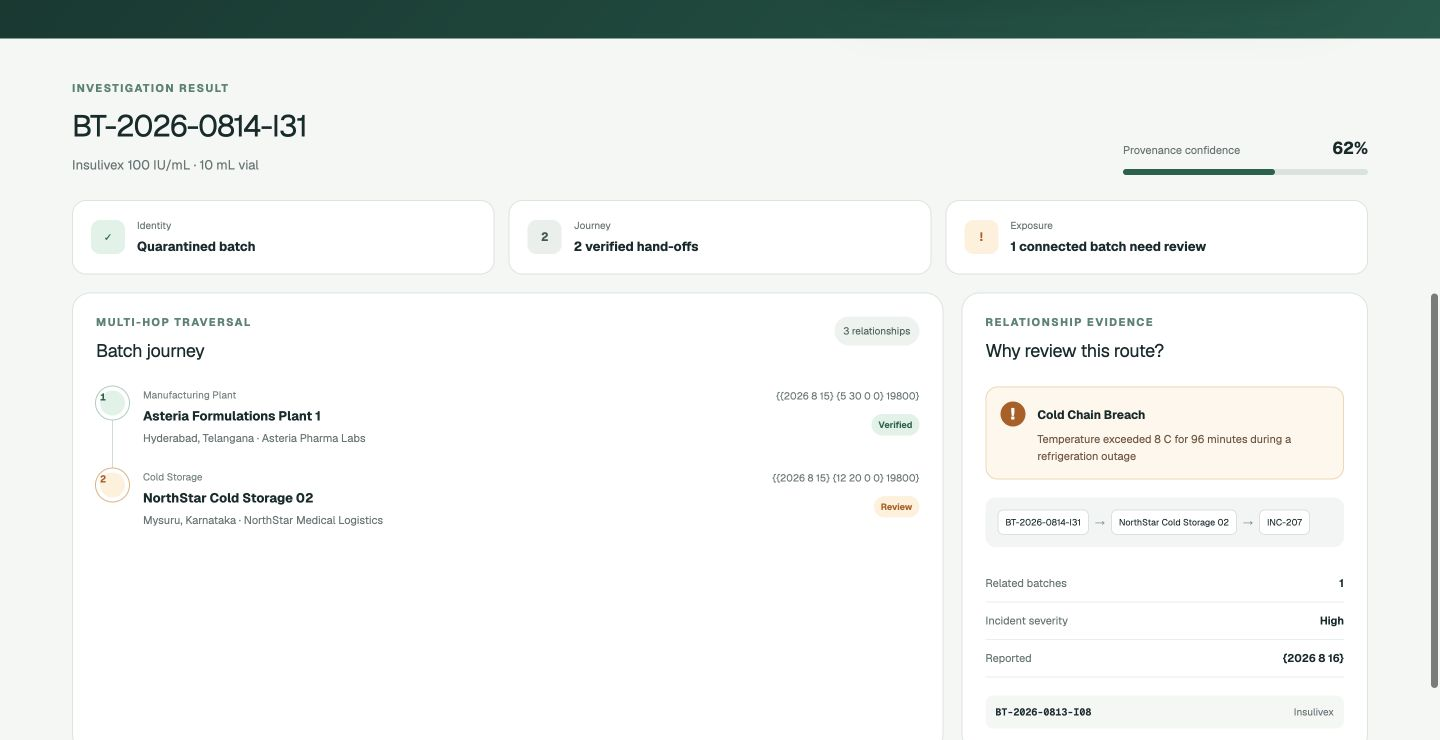
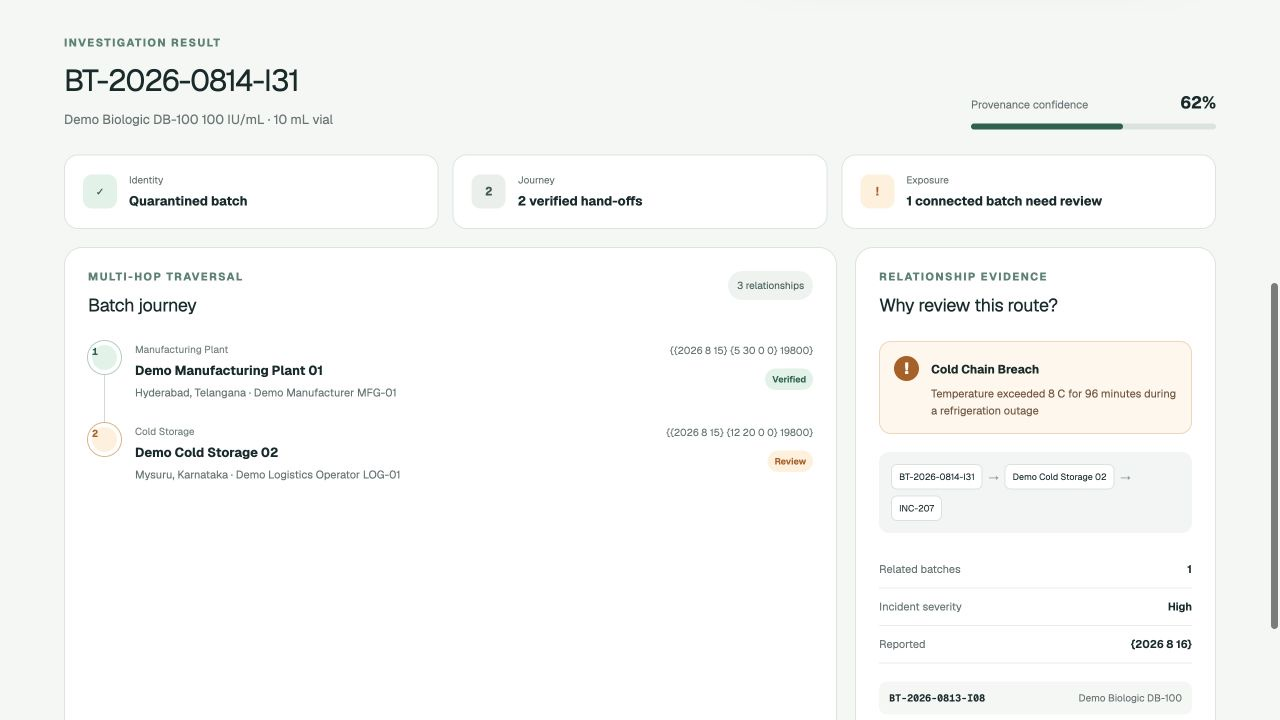
Document synthetic data and third-party licenses

diff --git a/app/globals.css b/app/globals.css
@@ -135,6 +135,16 @@ button { cursor: pointer; }
 .related-list div { display: flex; align-items: center; justify-content: space-between; gap: 10px; padding: 9px 10px; background: #f4f7f5; border-radius: 8px; }
 .related-list span { font: 650 10px var(--font-geist-mono); }
 .related-list small { color: var(--muted); font-size: 10px; }
+.site-footer {
+  padding: 24px clamp(24px, 5vw, 72px);
+  color: var(--muted);
+  background: var(--white);
+  border-top: 1px solid var(--line);
+  font-size: 11px;
+  line-height: 1.6;
+  text-align: center;
+}
+.site-footer strong { color: var(--ink); }
 
 @media (max-width: 900px) {
   .hero { grid-template-columns: 1fr; align-items: start; }

diff --git a/app/page.tsx b/app/page.tsx
@@ -234,6 +234,13 @@ export default function Home() {
           </>
         )}
       </section>
+
+      <footer className="site-footer">
+        <strong>Demonstration data only.</strong> All organizations, medicines, facilities,
+        incidents, identifiers, and operational records shown here are synthetic and do not
+        represent real supply-chain or patient data. Any resemblance to an actual entity or
+        product is coincidental.
+      </footer>
     </main>
   );
 }

diff --git a/THIRD_PARTY_NOTICES.md b/THIRD_PARTY_NOTICES.md
@@ -1,0 +1,33 @@
+# Third-Party Software Notices
+
+PharmRoute.Ai uses the following direct open-source dependencies. This notice does not alter the licences of those projects. Copyright belongs to their respective authors and contributors.
+
+## Production dependencies
+
+| Component | Version | Licence | Project |
+| --- | --- | --- | --- |
+| Next.js | 16.3.1 | MIT | https://github.com/vercel/next.js |
+| React | 19.2.8 | MIT | https://github.com/facebook/react |
+| React DOM | 19.2.8 | MIT | https://github.com/facebook/react |
+| Spring Boot | 4.1.0 | Apache-2.0 | https://github.com/spring-projects/spring-boot |
+| Neo4j Java Driver | 5.28.10 | Apache-2.0 | https://github.com/neo4j/neo4j-java-driver |
+
+## Frontend development dependencies
+
+| Component | Version | Licence | Project |
+| --- | --- | --- | --- |
+| Tailwind CSS PostCSS plugin | 4.2.1 | MIT | https://github.com/tailwindlabs/tailwindcss |
+| TypeScript definitions for Node.js | 22.19.19 | MIT | https://github.com/DefinitelyTyped/DefinitelyTyped |
+| TypeScript definitions for React | 19.2.14 | MIT | https://github.com/DefinitelyTyped/DefinitelyTyped |
+| TypeScript definitions for React DOM | 19.2.3 | MIT | https://github.com/DefinitelyTyped/DefinitelyTyped |
+| Vite React plugin | 6.0.2 | MIT | https://github.com/vitejs/vite-plugin-react |
+| Vite React Server Components plugin | 0.5.26 | MIT | https://github.com/vitejs/vite-plugin-react |
+| ESLint | 9.39.4 | MIT | https://github.com/eslint/eslint |
+| ESLint configuration for Next.js | 16.2.6 | MIT | https://github.com/vercel/next.js |
+| React Server DOM Webpack | 19.2.8 | MIT | https://github.com/facebook/react |
+| Tailwind CSS | 4.2.1 | MIT | https://github.com/tailwindlabs/tailwindcss |
+| TypeScript | 5.9.3 | Apache-2.0 | https://github.com/microsoft/TypeScript |
+| Vinext | 0.0.50 | MIT | https://github.com/cloudflare/vinext |
+| Vite | 8.2.1 | MIT | https://github.com/vitejs/vite |
+
+The complete dependency trees and exact resolved versions are recorded in `package-lock.json` and the Maven build metadata. Copies of the MIT and Apache License 2.0 texts are available from the linked upstream projects and are retained within dependency distributions where provided.

diff --git a/README.md b/README.md
@@ -64,6 +64,10 @@ flowchart LR
 
 The deterministic seed dataset includes eight medicine batches and multiple shipment, inspection, cold-chain, tampering, and suspected-counterfeit relationship paths.
 
+### Demonstration data notice
+
+All organizations, medicines, facilities, incidents, identifiers, and operational records in this project are synthetic and provided solely for illustrative purposes. They do not represent real supply-chain or patient data. Any resemblance to an actual entity or product is coincidental.
+
 Representative node properties include:
 
 | Node | Useful properties |
@@ -183,3 +187,5 @@ CognoDB connection details are read from environment variables. Real credentials
 Copyright © 2026 Yashwanth D M. All rights reserved.
 
 This repository is provided for portfolio and evaluation purposes. No permission is granted to reproduce, redistribute, or submit this work as another person's own work.
+
+Third-party software remains subject to its respective licence. See [`THIRD_PARTY_NOTICES.md`](THIRD_PARTY_NOTICES.md) for the direct dependencies used by this project.
